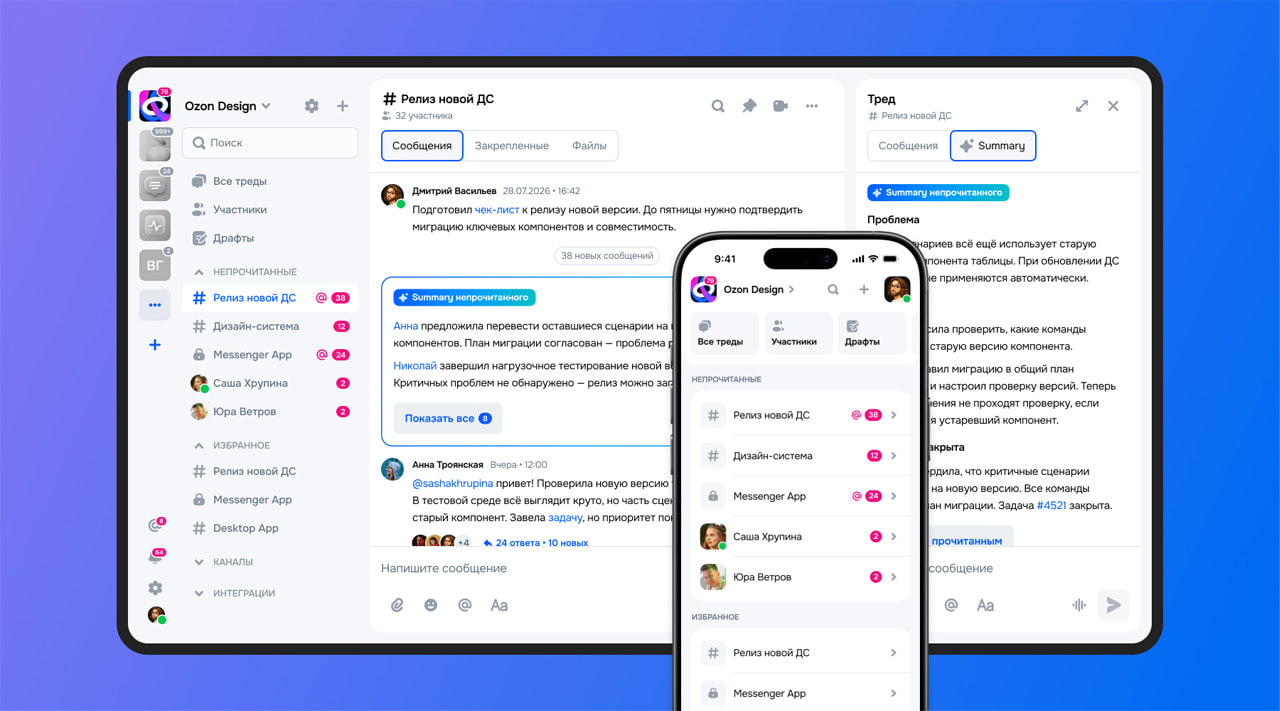
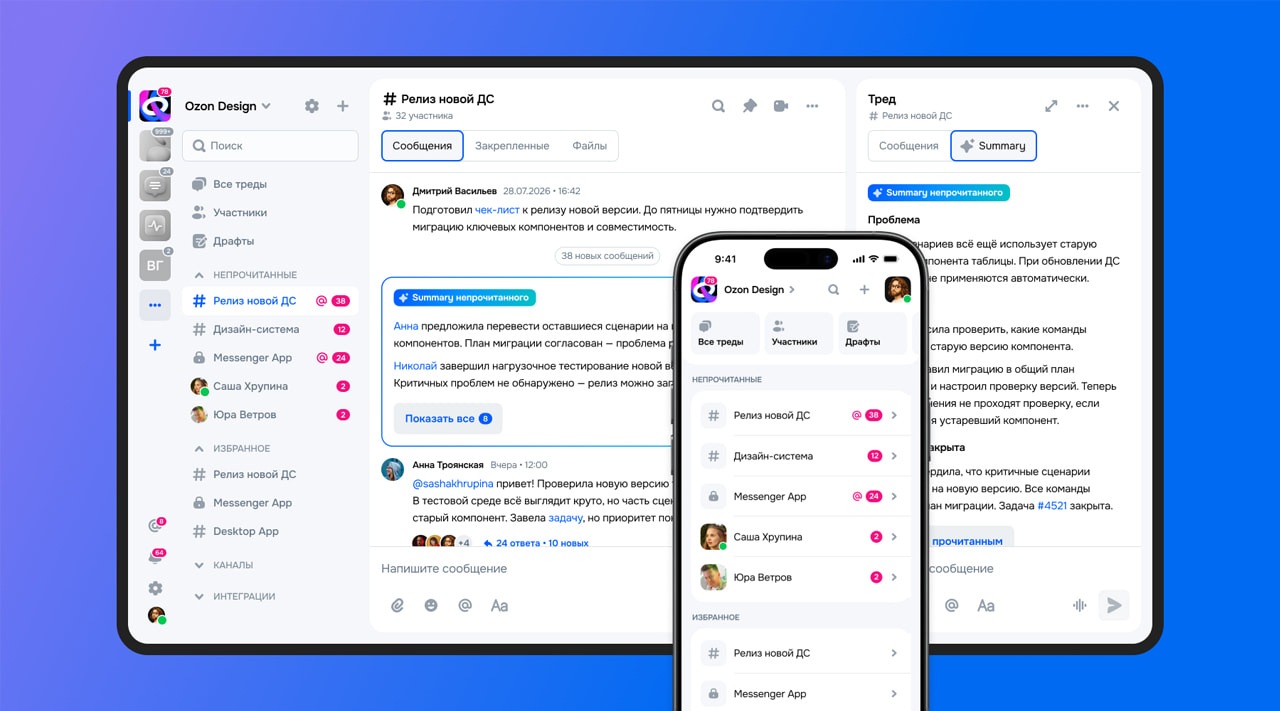
описание

diff --git a/app/cases/visuals/page.tsx b/app/cases/visuals/page.tsx
@@ -9,14 +9,14 @@ export default function VisualsPage() {
       <div className="container">
         <div>
           <p className="project-meta">
-            Визуалы и UI-концепты · 2025 - 2026
+            UI-шоты и концепты · 2025 - 2026
           </p>
         </div>
 
         <section className="project-intro fade-in">
-          <h1>Визуалы и UI-концепты</h1>
+          <h1>UI-шоты и концепты</h1>
           <h3 className="subtitle">
-            Здесь тренирую UI, насмотренность, руки и немного выхожу за рамки задач
+            Здесь тренирую UI, насмотренность, руки и выхожу за рамки задач
           </h3>
           <ProjectImage
             src="/images/projects/uishot_messenger_desktop.jpg"

diff --git a/app/cases/analytics/page.tsx b/app/cases/analytics/page.tsx
@@ -16,7 +16,7 @@ export default function AnalyticsPage() {
         <section className="project-intro fade-in">
           <h1>Редизайн модуля аналитики и снижение нагрузки на команду в 2 раза</h1>
           <h3 className="subtitle">
-            Превратил фиксированные отчёты в гибкий инструмент, добавил когортный анализ, что позволило клиентам глубже понимать свою аудиторию
+            Заменили фиксированные отчёты на гибкий инструмент, добавил когортный анализ, что позволило клиентам глубже понимать аудиторию
           </h3>
 
           <ul className="project-details">

diff --git a/app/for/[company]/page.tsx b/app/for/[company]/page.tsx
@@ -241,12 +241,12 @@ export default async function CompanyPage({ params }: { params: Promise<{ compan
                     <figure className="case-cover">
                       <img
                         src="/images/projects/Cover_visuals.jpg"
-                        alt="Превью визуалов и UI-концептов"
+                        alt="Превью UI-шотов и концептов"
                       />
                     </figure>
                     <div className="case-content case-content-home">
                       <h4 className="case-title">
-                        Визуалы и UI-концепты
+                        UI-шоты и концепты
                       </h4>
                       <p className="case-description">
                         2025 – 2026

diff --git a/app/page.tsx b/app/page.tsx
@@ -230,12 +230,12 @@ export default function Home() {
                     <figure className="case-cover">
                       <img
                         src="/images/projects/Cover_visuals.jpg"
-                        alt="Превью визуалов и UI-концептов"
+                        alt="Превью UI-шотов и концептов"
                       />
                     </figure>
                     <div className="case-content case-content-home">
                       <h4 className="case-title">
-                        Визуалы и UI-концепты
+                        UI-шоты и концепты
                       </h4>
                       <p className="case-description">
                         2025 – 2026

diff --git a/app/cases/ai-agents/page.tsx b/app/cases/ai-agents/page.tsx
@@ -14,7 +14,7 @@ export default function AiAgentsPage() {
         </div>
 
         <section className="project-intro fade-in">
-          <h1>Как я спроектировал AI-агентов с нуля</h1>
+          <h1>Как спроектировал AI-агентов с нуля</h1>
           <h3 className="subtitle">
             Разработка и внедрение нового AI-продукта в компании, от концепции до 82% adoption в бета-версии
           </h3>
